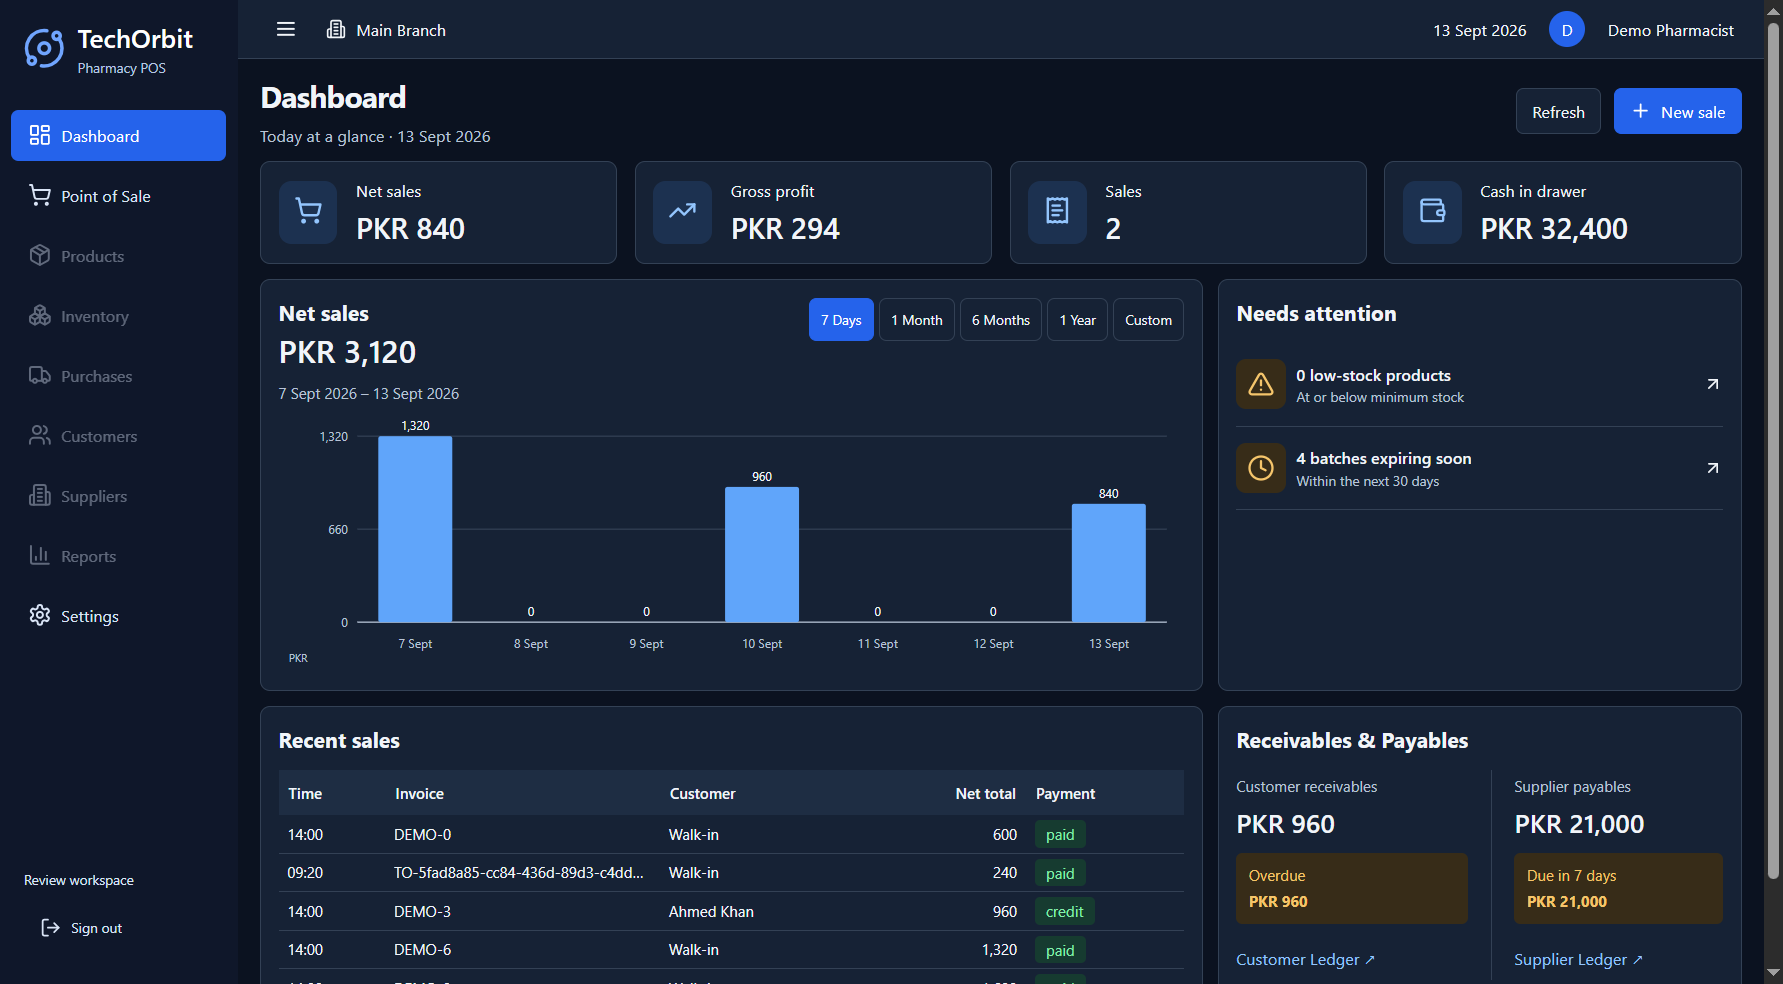
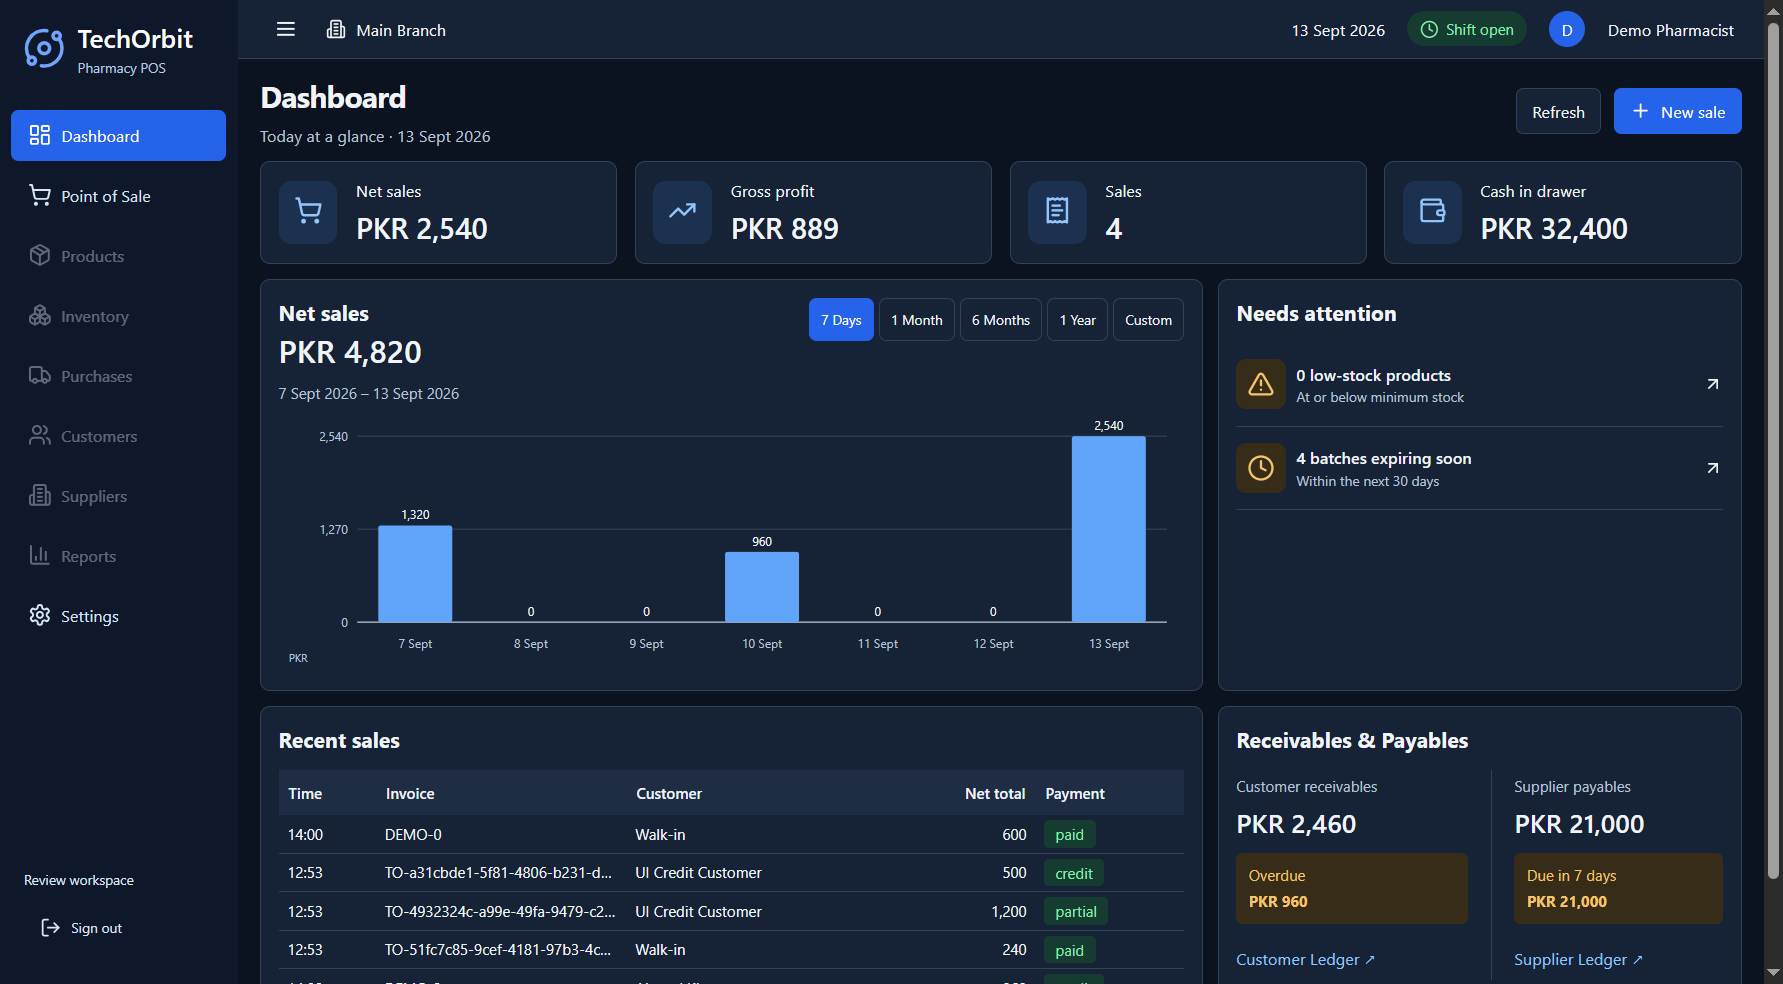
Fix POS shift status, customers, sale units and credit payments

diff --git a/modernization/src/POS.tsx b/modernization/src/POS.tsx
@@ -19,8 +19,15 @@ import type {
   Receipt,
   SaleInput,
   User,
+  CreditMode,
 } from "./contracts";
 import { money, Dialog } from "./shared";
+import { AddCustomer } from './AddCustomer';
+function unitLabel(product:Product,unit:Product['units'][number]){
+ const single=product.units.reduce((a,b)=>a.base_quantity<b.base_quantity?a:b);
+ const count=unit.base_quantity/single.base_quantity;
+ return unit.unit_name+(count>1?` (${Number(count.toFixed(4))} ${single.unit_name})`:'');
+}
 const newKey = () => `TO-${crypto.randomUUID()}`;
 export function POS({ user }: { user: User }) {
   const storageKey = `techorbit.drafts.${user.demo ? "review" : "live"}.${user.id}`;
@@ -32,6 +39,9 @@ export function POS({ user }: { user: User }) {
         discount: string;
         method: Payment;
         key: string;
+        creditMode?:CreditMode;
+        received?:string;
+        dueDate?:string;
       }[]
     >(() => {
       try {
@@ -49,6 +59,10 @@ export function POS({ user }: { user: User }) {
     [customer, setCustomer] = useState<number | null>(null),
     [discount, setDiscount] = useState("0"),
     [method, setMethod] = useState<Payment>("cash"),
+    [creditMode,setCreditMode]=useState<CreditMode>('paid'),
+    [received,setReceived]=useState('0'),
+    [dueDate,setDueDate]=useState(''),
+    [showAddCustomer,setShowAddCustomer]=useState(false),
     [quote, setQuote] = useState<Quote | null>(null),
     [error, setError] = useState(""),
     [busy, setBusy] = useState(false),
@@ -62,6 +76,9 @@ export function POS({ user }: { user: User }) {
   const input: SaleInput = {
     key,
     paymentMethod: method,
+    creditMode,
+    paidMinor:creditMode==='partial'?Math.round(Number(received)*100):0,
+    dueDate,
     customerId: customer,
     discountMinor: Math.round(Number(discount) * 100),
     items: lines.map((l) => ({
@@ -71,6 +88,7 @@ export function POS({ user }: { user: User }) {
     })),
   };
   const inputKey = JSON.stringify(input);
+  const creditReady=creditMode==='paid'||Boolean(customer&&dueDate&&quote&&(creditMode==='credit'||quote.balanceDueMinor>=0));
   useEffect(() => {
     window.pharmacy
       .customers()
@@ -178,7 +196,7 @@ export function POS({ user }: { user: User }) {
   }
   function hold() {
     if (!lines.length || busy) return;
-    setHeld((old) => [...old, { lines, customer, discount, method, key }]);
+    setHeld((old) => [...old, { lines, customer, discount, method, key,creditMode,received,dueDate }]);
     reset();
   }
   function reset() {
@@ -187,13 +205,14 @@ export function POS({ user }: { user: User }) {
     setDiscount("0");
     setCustomer(null);
     setMethod("cash");
+    setCreditMode('paid');setReceived('0');setDueDate('');
     setKey(newKey());
     setQuery("");
     setError("");
     scan.current?.focus();
   }
   async function pay() {
-    if (postLock.current || !quote || quoting || !lines.length) return;
+    if (postLock.current || !quote || quoting || !lines.length || !creditReady) return;
     postLock.current = true;
     setBusy(true);
     setError("");
@@ -214,7 +233,7 @@ export function POS({ user }: { user: User }) {
         !scan.current ||
         scan.current.closest("[hidden]") ||
         receipt ||
-        showHeld
+        showHeld || showAddCustomer
       )
         return;
       if (e.key === "F2") {
@@ -286,8 +305,9 @@ export function POS({ user }: { user: User }) {
               </option>
             ))}
           </select>
-          <span className="price-mode">
-            Price mode <b>Retail</b>
+          <button className="add-customer" onClick={()=>setShowAddCustomer(true)}><Plus size={16}/>Add customer</button>
+          <span className="price-mode" title="Retail is the price list. Credit and partial payment are selected below.">
+            Pricing <b>Retail</b>
           </span>
         </div>
         <div className="pos-grid">
@@ -351,7 +371,7 @@ export function POS({ user }: { user: User }) {
                           }
                         >
                           {line.product.units.map((u) => (
-                            <option key={u.unit_name}>{u.unit_name}</option>
+                            <option key={u.unit_name} value={u.unit_name}>{unitLabel(line.product,u)}</option>
                           ))}
                         </select>
                       </td>
@@ -479,6 +499,7 @@ export function POS({ user }: { user: User }) {
               {selected && (
                 <div className="batch-card">
                   <h3>{selected.name}</h3>
+                  <p className="packing-info">Sale units: {selected.units.map(u=>unitLabel(selected,u)).join(' · ')}</p>
                   <table>
                     <thead>
                       <tr>
@@ -495,7 +516,7 @@ export function POS({ user }: { user: User }) {
                             <small>{i === 0 ? "FEFO" : ""}</small>
                           </td>
                           <td>{b.expiry_date || "None"}</td>
-                          <td>{b.quantity_on_hand}</td>
+                          <td>{Number(b.quantity_on_hand.toFixed(4))} {selected.baseUnit}</td>
                         </tr>
                       ))}
                     </tbody>
@@ -516,8 +537,18 @@ export function POS({ user }: { user: User }) {
             </p>
           </section>
         </div>
+        <div className="panel credit-controls">
+          <label>Payment type<select aria-label="Payment type" value={creditMode} onChange={e=>setCreditMode(e.target.value as CreditMode)}><option value="paid">Paid in full</option><option value="partial">Partial payment</option><option value="credit">Full credit</option></select></label>
+          {creditMode!=='paid'&&<>
+            {creditMode==='partial'&&<label>Received now (PKR)<input aria-label="Received now PKR" type="number" min="0.01" step="0.01" value={received} onChange={e=>setReceived(e.target.value)}/></label>}
+            <label>Due date<input aria-label="Credit due date" type="date" value={dueDate} onChange={e=>setDueDate(e.target.value)}/></label>
+            <div className="credit-due" aria-live="polite"><small>Remaining credit (PKR)</small><strong>{quote?money(quote.balanceDueMinor):'—'}</strong></div>
+            {!customer&&<span className="warning">Select or add a customer for credit.</span>}
+          </>}
+          {creditMode==='paid'&&<small>Choose Cash, Card or Digital below.</small>}
+        </div>
         <div className="panel payment-bar" data-testid="payment-bar">
-          <div>
+          <div className="totals-group" data-testid="totals-group"><div>
             <small>Subtotal (PKR)</small>
             <strong>{money(quote?.grossMinor ?? 0)}</strong>
           </div>
@@ -538,6 +569,7 @@ export function POS({ user }: { user: User }) {
               {quoting ? "…" : money(quote?.finalTotalMinor ?? 0)}
             </strong>
           </div>
+          </div>
           <div className="payment-methods">
             {(
               [
@@ -548,6 +580,7 @@ export function POS({ user }: { user: User }) {
             ).map(([value, label, Icon]) => (
               <button
                 key={value}
+                disabled={creditMode==='credit'}
                 aria-pressed={method === value}
                 onClick={() => setMethod(value)}
               >
@@ -562,7 +595,7 @@ export function POS({ user }: { user: User }) {
           </button>
           <button
             className="primary pay"
-            disabled={!quote || quoting || !lines.length}
+            disabled={!quote || quoting || !lines.length || !creditReady}
             onClick={() => void pay()}
           >
             <Printer size={16} />
@@ -590,6 +623,7 @@ export function POS({ user }: { user: User }) {
           </span>
         )}
       </div>
+      {showAddCustomer&&<AddCustomer onClose={()=>setShowAddCustomer(false)} onSaved={c=>{setCustomers(old=>[...old.filter(x=>x.id!==c.id),c]);setCustomer(c.id)}}/>}
       {showHeld && (
         <Dialog title="Held sales" onClose={() => setShowHeld(false)}>
           {held.map((h, i) => (
@@ -597,14 +631,22 @@ export function POS({ user }: { user: User }) {
               className="held-row"
               key={h.key}
               disabled={lines.length > 0}
-              onClick={() => {
-                setLines(h.lines);
+              onClick={async () => {
+                try {
+                const refreshed=await Promise.all(h.lines.map(async line=>{
+                  const product=line.product.barcode?await window.pharmacy.barcode({barcode:line.product.barcode}):(await window.pharmacy.search({q:line.product.name})).find(p=>p.id===line.product.id);
+                  if(!product)throw Error('A held product is no longer available. Review its product record.');
+                  return {...line,product};
+                }));
+                setLines(refreshed);
                 setCustomer(h.customer);
                 setDiscount(h.discount);
                 setMethod(h.method);
+                setCreditMode(h.creditMode||'paid');setReceived(h.received||'0');setDueDate(h.dueDate||'');
                 setKey(h.key);
                 setHeld((old) => old.filter((_, j) => j !== i));
                 setShowHeld(false);
+                }catch(e){setError((e as Error).message);setShowHeld(false)}
               }}
             >
               Resume sale {i + 1} · {h.lines.length} lines
@@ -631,6 +673,9 @@ export function POS({ user }: { user: User }) {
               </p>
             ))}
             <h3>Total PKR {money(receipt.totals.finalTotalMinor)}</h3>
+            <p>Received PKR {money(receipt.payment.amountPaidMinor)}</p>
+            <p>Remaining credit PKR {money(receipt.payment.balanceDueMinor)}</p>
+            {receipt.payment.balanceDueMinor>0&&<p>Due date: {receipt.payment.dueDate}</p>}
             <p>
               Payment:{" "}
               {receipt.payment.method === "bank_transfer"

diff --git a/modernization/src/styles.css b/modernization/src/styles.css
@@ -965,6 +965,7 @@ body:has(.scrim) {
   }
 }
 @media print {
+  .credit-controls {display:none!important}
   body {
     background: white;
     color: black;
@@ -1010,3 +1011,25 @@ body:has(.scrim) {
     display: none !important;
   }
 }
+
+/* Shared geometry for both themes: widen totals instead of compressing values. */
+.shift-status{padding:6px 10px;border-radius:20px;font-size:12px;white-space:nowrap;gap:6px!important}
+.shift-status.open{background:var(--success-surface);color:var(--success)}
+.shift-status.closed{background:var(--warning-surface);color:var(--amber)}
+.customer-form{display:grid;gap:16px}.customer-form label{display:grid;gap:7px}
+.add-customer{color:var(--link);flex-shrink:0}
+.pos-toolbar>.search-field{min-width:180px}.pos-toolbar>select{max-width:230px}
+.credit-controls{display:flex;align-items:center;gap:22px;margin-top:10px;padding:12px 16px!important;flex-wrap:wrap}
+.credit-controls label{display:grid;gap:6px;font-size:12px;color:var(--muted)}
+.credit-controls input,.credit-controls select{min-width:150px}
+.credit-due strong{display:block;font-size:22px;margin-top:4px;color:var(--amber)}
+.payment-bar{flex-wrap:wrap;padding:16px!important;gap:14px}
+.totals-group{display:grid;grid-template-columns:minmax(110px,1fr) minmax(125px,1fr) minmax(135px,1.15fr);gap:20px;align-items:center;margin-right:auto;flex:1;min-width:430px}
+.totals-group>div,.totals-group>.discount{width:auto;min-width:0;padding:10px 12px}
+.totals-group strong{font-size:25px;font-variant-numeric:tabular-nums;overflow-wrap:anywhere}
+.totals-group small,.totals-group label{font-size:12px}
+.totals-group .discount input{padding:10px;font-size:16px}
+.payment-methods{margin-left:0}.packing-info{font-size:11px;line-height:1.7}
+.invoice td select{max-width:135px;min-width:100px}
+.pos-grid{height:calc(100vh - 435px);min-height:310px}
+@media(max-width:1250px){.totals-group{flex-basis:100%}.payment-bar{gap:10px}.pos-grid{height:calc(100vh - 490px)}.price-mode{display:none}.credit-controls{gap:14px}.topbar{gap:10px}}

diff --git a/modernization/src/contracts.ts b/modernization/src/contracts.ts
@@ -1,5 +1,6 @@
 export type Theme = "light" | "dark" | "system";
 export type Payment = "cash" | "card" | "digital";
+export type CreditMode = 'paid' | 'partial' | 'credit';
 export interface Product {
   id: number;
   name: string;
@@ -30,6 +31,9 @@ export interface Line {
   quantity: number;
 }
 export interface SaleInput {
+  creditMode?:CreditMode;
+  paidMinor?:number;
+  dueDate?:string;
   key: string;
   paymentMethod: Payment;
   discountMinor: number;
@@ -44,6 +48,8 @@ export interface User {
   demo: boolean;
 }
 export interface Quote {
+  amountPaidMinor:number;
+  balanceDueMinor:number;
   grossMinor: number;
   invoiceDiscountMinor: number;
   gstMinor: number;
@@ -69,7 +75,7 @@ export interface Receipt {
     roundingMinor: number;
     invoiceDiscountMinor: number;
   };
-  payment: { method: string };
+  payment: { method: string;amountPaidMinor:number;balanceDueMinor:number;dueDate:string|null };
 }
 export interface DashboardData {
   range: { from: string; to: string; monthly: boolean };
@@ -91,6 +97,8 @@ export interface DashboardData {
   recent: any[];
 }
 export interface Api {
+  shiftStatus():Promise<{id:number;opened_at:string;device_id:string}|null>;
+  createCustomer(input:{name:string;phone:string}):Promise<{id:number;name:string;phone:string}>;
   login(input: { username: string; password: string }): Promise<User>;
   logout(): Promise<unknown>;
   changePassword(input: {

diff --git a/modernization/src/AddCustomer.tsx b/modernization/src/AddCustomer.tsx
@@ -1,0 +1,6 @@
+import {useState} from 'react';
+import {Dialog} from './shared';
+export function AddCustomer({onSaved,onClose}:{onSaved:(customer:{id:number;name:string;phone:string})=>void;onClose:()=>void}){
+ const [error,setError]=useState(''),[busy,setBusy]=useState(false);
+ return <Dialog title="Add customer" onClose={()=>{if(!busy)onClose()}}><form className="customer-form" onSubmit={async event=>{event.preventDefault();if(busy)return;const fields=new FormData(event.currentTarget);setBusy(true);setError('');try{onSaved(await window.pharmacy.createCustomer({name:String(fields.get('name')),phone:String(fields.get('phone'))}));onClose()}catch(e){setError((e as Error).message)}finally{setBusy(false)}}}><label>Customer name<input name="name" required minLength={2} maxLength={120} autoComplete="name"/></label><label>Phone number<input name="phone" required type="tel" maxLength={25} autoComplete="tel"/></label><small>Name and phone identify the customer for credit and payment follow-up.</small>{error&&<p className="error" role="alert">{error}</p>}<button className="primary" disabled={busy}>{busy?'Saving…':'Save customer'}</button></form></Dialog>
+}

diff --git a/modernization/src/ShiftStatus.tsx b/modernization/src/ShiftStatus.tsx
@@ -1,0 +1,8 @@
+import {useEffect,useState} from 'react';
+import {Clock} from 'lucide-react';
+export function ShiftStatus(){
+ const [shift,setShift]=useState<{opened_at:string}|null>(null),[state,setState]=useState('loading');
+ useEffect(()=>{let active=true;const refresh=()=>window.pharmacy.shiftStatus().then(value=>{if(active){setShift(value);setState('ready')}}).catch(()=>{if(active)setState('error')});void refresh();const timer=setInterval(refresh,30000);window.addEventListener('focus',refresh);return()=>{active=false;clearInterval(timer);window.removeEventListener('focus',refresh)}},[]);
+ const label=state==='loading'?'Checking shift':state==='error'?'Shift unavailable':shift?'Shift open':'Shift closed';
+ return <span className={'shift-status '+(shift&&state==='ready'?'open':'closed')} role="status" aria-label={label} title={shift?'Opened '+new Date(shift.opened_at).toLocaleString():label}><Clock size={15}/>{label}</span>
+}

diff --git a/modernization/src/App.tsx b/modernization/src/App.tsx
@@ -17,6 +17,7 @@ import type { Theme, User } from "./contracts";
 import { Dashboard } from "./Dashboard";
 import { POS } from "./POS";
 import { dateLabel } from "./shared";
+import { ShiftStatus } from './ShiftStatus';
 const nav = [
   ["Dashboard", LayoutDashboard],
   ["Point of Sale", ShoppingCart],
@@ -178,6 +179,7 @@ export function App() {
           </span>
           <span className="top-spacer" />
           <span>{dateLabel(new Date().toISOString())}</span>
+          <ShiftStatus/>
           <span className="user-avatar">{user.displayName[0]}</span>
           <span>{user.displayName}</span>
         </header>

diff --git a/docs/pos-feedback-2026-09-13.md b/docs/pos-feedback-2026-09-13.md
@@ -1,0 +1,30 @@
+# POS feedback implementation — 2026-09-13
+
+## Delivered
+
+- Shared live shift badge on Dashboard/POS: current user and modern-desktop device, open/closed/unavailable states; refresh on focus and every 30 seconds.
+- Add Customer form in POS, required name/phone, normalized phone duplicate checks and audit entry; selects the saved customer.
+- Enlarged, responsive subtotal/discount/total group. Same layout for light/dark.
+- Product-specific sale-unit dropdown, packing ratios and batch stock unit labels. Prices and stock conversions use the existing authoritative SQLite sales engine.
+- Paid in full / Partial payment / Full credit. Customer and valid due date required for credit. Partial received amount uses Cash/Card/Digital; only outstanding amount becomes a receivable. Receipt shows received and remaining amounts. Full credit does not create a money collection.
+- Retail remains a price-list label, not a payment method. Credit does not change product prices.
+- Held sales preserve credit details and refresh product/unit definitions on resume. Replay validation includes the partial collection method.
+
+## Units and data safety
+
+Demo-only, idempotent unit additions: Panadol/Cetirizine 10 tablets per strip and 10 strips per box; ORS 10 sachets per pack and 100 per box; Amoxicillin 10 capsules per strip and 100 per box. These are sample pack sizes, NOT universal manufacturer rules. Real products must have their own configured packing sizes/prices; sealed or indivisible products must not gain invalid single-unit choices.
+
+Existing demo strip-based inventory/history is preserved; tablet conversion is 0.1 strip. No silent stock rebasing, production database migration or operational data changes. The launcher remains a separate SQLite review application, not a production rollout.
+
+## Verification
+
+- TypeScript and Vite production build passed.
+- Existing backend regression: 31 suites / 99 tests passed.
+- 7 Node tests passed: pricing/stock conversion, repeat seed, shift open/closed, customer validation/deduplication, full/partial credit, Digital money movement, receivable amount, invalid dates/overpayment, replay guards and prior range/gateway tests.
+- Actual Electron E2E passed: prior dashboard range/hold/receipt flows plus shift badges on both pages, Add Customer selection, tablet/box/pack selection, partial Digital sale (1,200 total / 200 paid / 1,000 due), full credit (500 due), missing-customer blocking, same light/dark geometry.
+- Evidence: modernization/evidence/pos-light.png, pos-dark.png, pos-partial-credit.png, dashboard-light.png, dashboard-dark.png.
+- Physical printer output and all monitor/DPI combinations remain unverified.
+
+## Next
+
+Review this increment using the demo database, confirm manufacturer-specific unit pack sizes before real imports, and implement the remaining disabled modern screens separately. Retail/wholesale price lists are a separate feature from customer credit terms.
